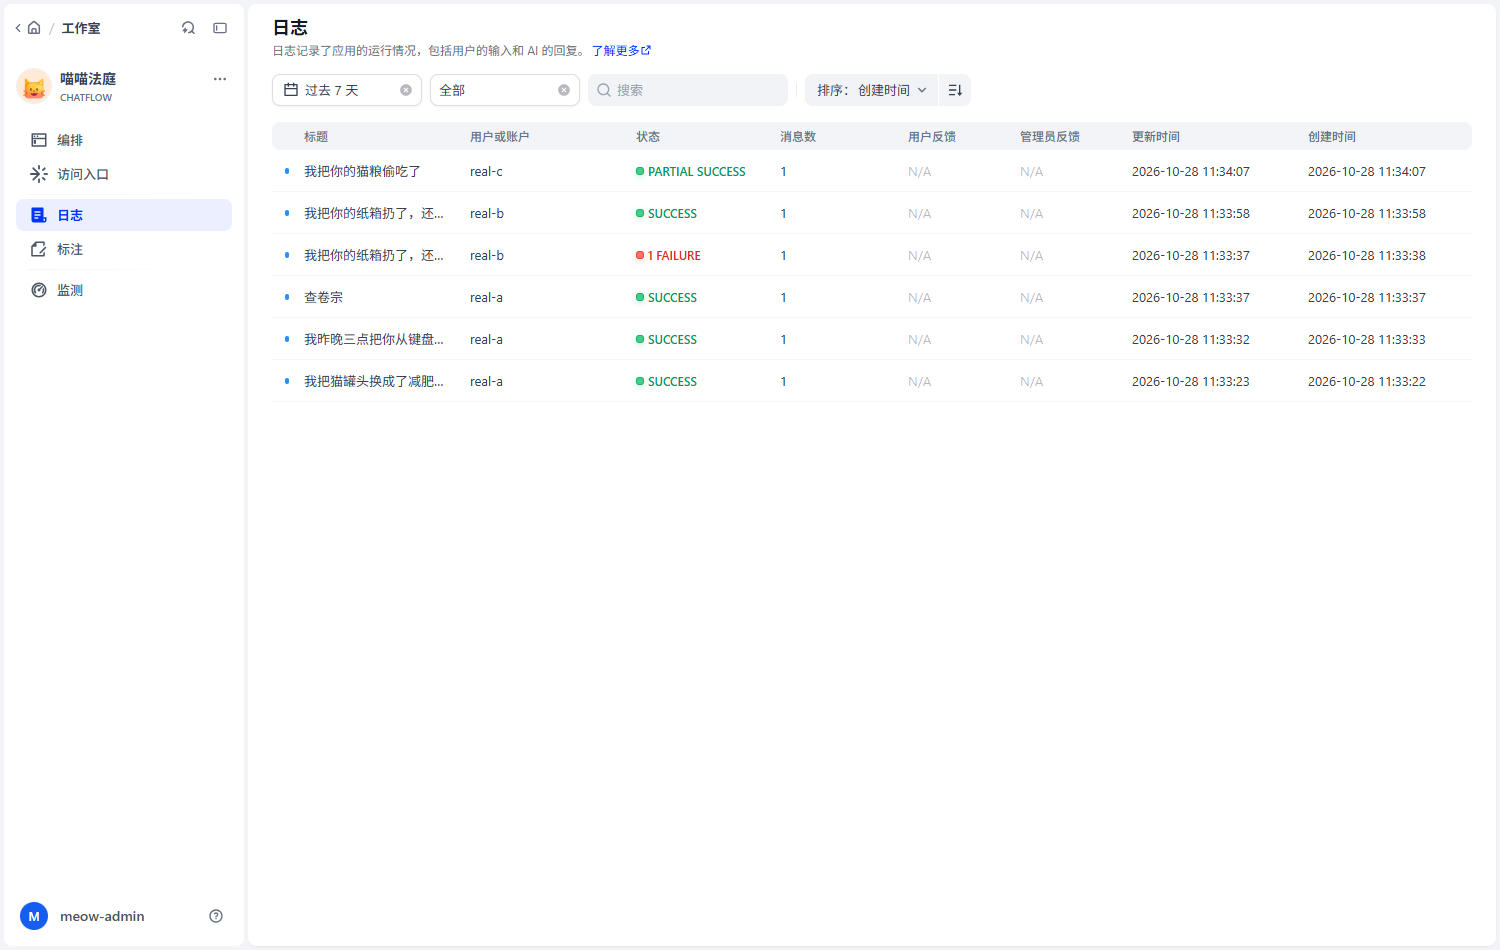
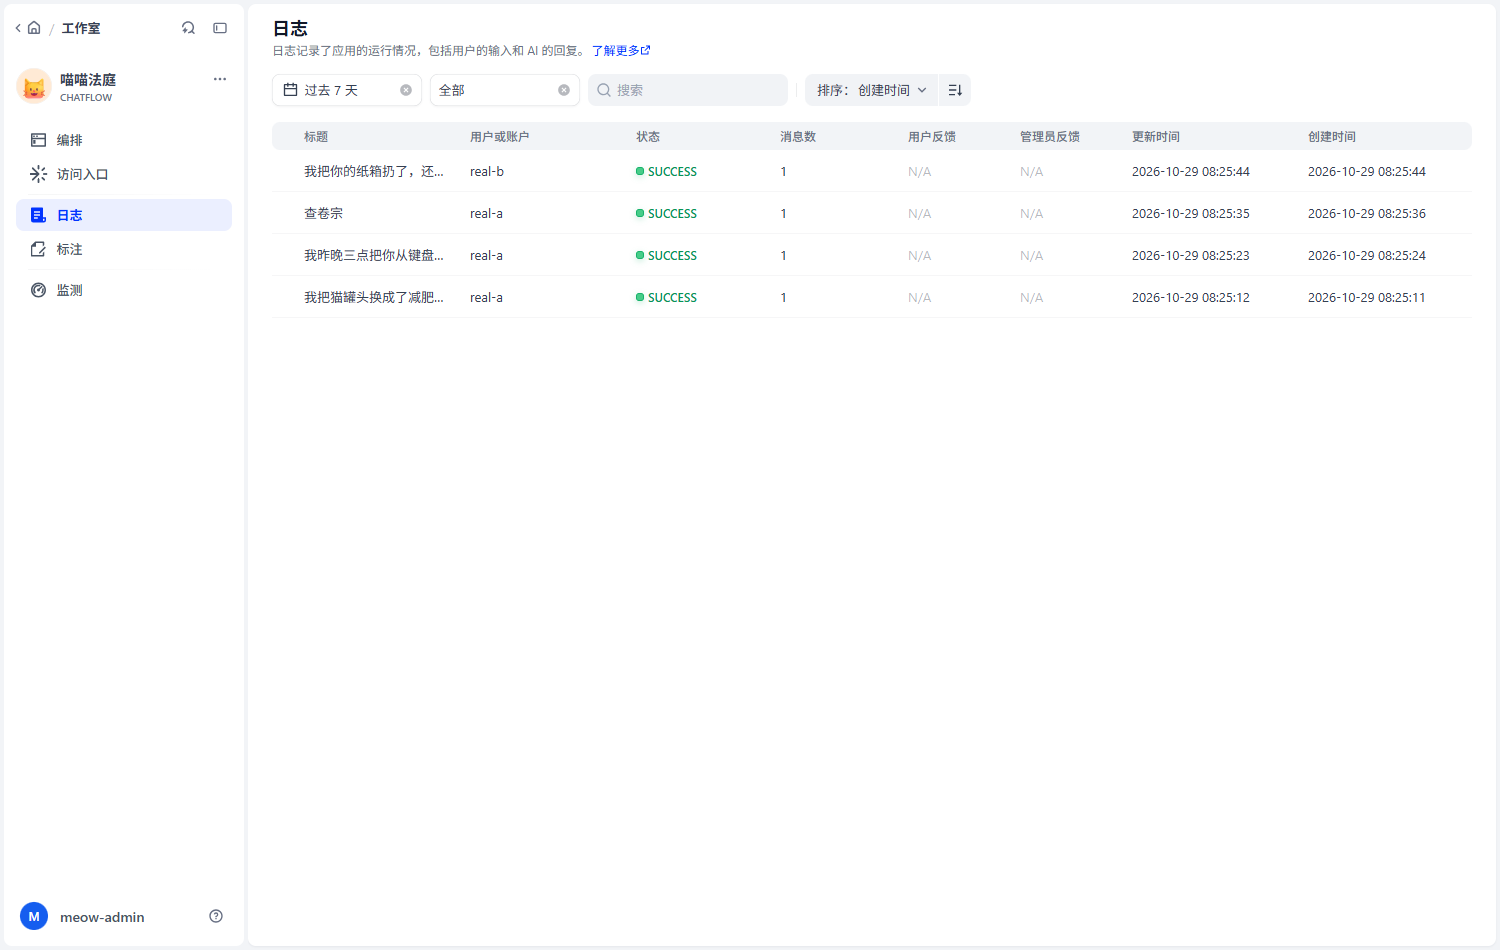
test(dify): refresh the run evidence with a clean, failure-free batch
The earlier evidence set was captured while the DeepSeek endpoint dropped a
connection mid-run, so the app's run log carried one red FAILURE row next to
the four successful runs. That row came from a transient provider error that
succeeded on retry, not from the workflow, but it reads as a defect in a
screenshot.

Rebuild the app from dsl/meow-court.yml, reset the two demo players, and run
the four scripted conversations again until the log shows only SUCCESS rows.
Re-shoot every screenshot against that app, including a new
07-offline-fallback.png for the deliberate PowerContext-outage test, so the
PARTIAL SUCCESS state it produces stays out of the green run list.

Regenerate dify-runs.md, service-api-runs.json and dify-import-final.json
from this batch and update both screenshot lists.

diff --git a/dify/evidence/dify-runs.md b/dify/evidence/dify-runs.md
@@ -3,103 +3,105 @@
 环境：Dify 社区版 **1.18.0**（docker compose）+ **PowerContext 1.4.1**（SQLite）+ DeepSeek 插件 `langgenius/deepseek` 0.0.26，模型 **`deepseek-flash`**。
 
 全部运行都走应用自己的 Service API（`POST /v1/chat-messages`），每次 `conversation_id` 传空字符串（等于新建会话），`user` 即 `sys.user_id`。
-
 使用的就是交付的 [dsl/meow-court.yml](../dsl/meow-court.yml)，没有替换任何节点。
+
 原始返回（query / user / conversation_id / message_id / 完整回复）见 `service-api-runs.json`。
+
+前 4 次是常规运行，日志页里全部是绿色的 `SUCCESS`（截图 `screenshots/03-logs.png`）；第 5 次是故意在 PowerContext 停止时发起的离线兜底测试，状态为 `PARTIAL SUCCESS`（截图 `screenshots/07-offline-fallback.png`），因为它走的是设计内的降级分支。
 
 ## A-首次开庭（真模型）
 
 - 玩家（`user`）：`real-a`
 - 输入：`我把猫罐头换成了减肥罐头，还说是猫自己说要减肥`
-- conversation_id：`32b55209-a48f-4561-a0b9-a2c58b08d600`
+- conversation_id：`7f1339c3-7644-4b28-acb8-0593eed058e3`
 
 ```markdown
 ## ⚖ 第 1 号 · 喵喵法庭开庭
 
 **累犯等级**：★☆☆☆☆（前科 0 次）
-**案由**：偷换罐头，嫁祸本猫
-**被告态度**：嫁祸——还把「减肥」两个字塞进本猫嘴里，本庭的耳朵可没这么脏
+**案由**：偷换罐罐，还赖猫
+**被告态度**：嫁祸——你说猫自己说要减肥？本庭活了九年，头一次听见猫说人话，还是这种鬼话。
 
 **判词**：
-> 本庭第一次见你，没想到一上来就是这种戏码。卷宗里空空如也，本庭本来还想给你留点体面，结果你把减肥罐头端上来，还说是我点的菜。法槌落下的声音，比你开罐头的声音难听多了。
+> 本庭第一次见你，卷宗干净得像刚舔过的毛。可你第一回上庭就敢把罐罐换成减肥罐头，还把锅甩给受害人。本庭拍了一记法槌，槌垫上全是我掉的毛，那都是替你掉的。
 
-**刑罚**：判被告徒手开三罐正经主食罐，全程跪坐，猫先闻三十秒才准放下；另罚抄「猫不需要减肥」一百遍，用爪子蘸汤写
-**附加条款**：即日起罐头一切更换须经本猫当面试吃并盖章（肉垫印）
+**刑罚**：判被告赔偿原味罐罐 3 箱（每箱 24 罐），当着本庭的面开罐 1 次，让猫先闻 30 秒再吃；减肥罐头由被告本人连吃 7 天，每天 2 顿，不许加猫条。
+**附加条款**：即日起，被告不得再以「猫说的」作为任何法庭陈述，猫说的话由本庭独家翻译。
 **援引旧案**：无
 
-—— 退庭——下次再端减肥的进来，本庭就判你吃它。
+—— 法槌落，罐罐开——退庭，被告去把罐头盖舔干净。
 
-> 🗄 本案已归档到 PowerContext 卷宗：`art_c743a79cb12e4fcd8252f3baa8551bf1`（下次开庭自动翻出）
+> 🗄 本案已归档到 PowerContext 卷宗：`art_bd6151410a0a470787975ecd710859d2`（下次开庭自动翻出）
 ```
 
 ## B-新会话累犯（真模型）
 
 - 玩家（`user`）：`real-a`
 - 输入：`我昨晚三点把你从键盘上抱走了`
-- conversation_id：`1f5f385b-9869-405a-9dae-56ebd43a0e7b`
+- conversation_id：`83aa300e-7397-4709-81fa-502cf642fa63`
 
 ```markdown
 ## ⚖ 第 2 号 · 喵喵法庭开庭
 
 **累犯等级**：★★☆☆☆（前科 1 次）
-**案由**：凌晨三点劫猫离键
-**被告态度**：认罪——但你这语气不像认错，像在汇报一件好人好事，本庭的毛都听炸了
+**案由**：半夜擅移猫体
+**被告态度**：狡辩——你说「抱走」，本庭听到的是「绑架」，凌晨三点，键盘重地，猫在加班踩键，你竟敢下手。
 
 **判词**：
-> 第 1 号案你偷换罐头还嫁祸本猫，本庭念你初犯给了你体面；如今第 2 号，你又趁着夜色把本猫从键盘上搬走。键盘是本猫的床，三点是本猫的黄金睡档，你两样一起动了。卷宗说你只是「累犯★☆☆☆☆」，可本庭的爪垫说你是惯犯。
+> 第 1 号案里你偷换罐罐、还赖猫说猫自己要减肥；这次你不偷罐了，改偷猫。上次动的是猫的饭，这次动的是猫的身子，前科未清又添新罪，本庭的毛球已经气得炸成蒲公英。键盘是本庭的办公桌，三点是本庭的黄金办公时段，你一句话就把整场审理抱没了。
 
-**刑罚**：判被告上缴 4 罐正经罐头（保释基准 2 罐，累犯加倍），并把那块键盘拆下来铺进纸箱，作为本猫的正式寝具；另罚连续 30 分钟梳毛，中途不许停手、不许看手机。
-**附加条款**：本猫趴键盘属于办公，被告抱走本猫属于越权执法。
+**刑罚**：判被告赔偿原味罐罐 4 罐，另附「猫体移动许可证」办理费 1 罐；许可证需由本庭用肉垫当场盖章，盖章时间由本庭决定，通常是凌晨三点。
+**附加条款**：今后被告与猫的距离不得小于一条尾巴，除非猫主动走过去——踩你脸上也算主动。
 **援引旧案**：第 1 号
 
-—— 法槌落下——顺带把被告的键盘也敲了下去，现在它是本猫的了。
+—— 法槌一敲，槌垫上又掉三根毛，全记你账上。
 
-> 🗄 本案已归档到 PowerContext 卷宗：`art_4a64f74d771a47829d72d225d2b56475`（下次开庭自动翻出）
+> 🗄 本案已归档到 PowerContext 卷宗：`art_4a7b46a4b04b4778b6b88e0423f7c186`（下次开庭自动翻出）
 ```
 
 ## C-查卷宗
 
 - 玩家（`user`）：`real-a`
 - 输入：`查卷宗`
-- conversation_id：`94919ed4-df76-4be0-bc7f-ad86cc026079`
+- conversation_id：`287d0247-909a-48ae-9a28-862cf351b4ec`
 
 ```markdown
 ### 📜 卷宗 · 共 2 号
 
-- 第2号 · 累犯★★☆☆☆ · 被告自述：我昨晚三点把你从键盘上抱走了 | 案由：凌晨三点劫猫离键 | 判读：认罪——但你这语气不像认错，像在汇报一件好人好事，本庭的毛都听炸了 | 判决：第 1 号案你偷换罐头还嫁祸本猫，本庭念你初犯给了你体面；如今第 2 号，你又趁着夜色把本猫从键盘上搬走。键盘是本猫的床，三点是本猫…
-- 第1号 · 累犯★☆☆☆☆ · 被告自述：我把猫罐头换成了减肥罐头，还说是猫自己说要减肥 | 案由：偷换罐头，嫁祸本猫 | 判读：嫁祸——还把「减肥」两个字塞进本猫嘴里，本庭的耳朵可没这么脏 | 判决：本庭第一次见你，没想到一上来就是这种戏码。卷宗里空空如也，本庭本来还想给你留点体面，结果你把减肥罐头端上来，还说是我点…
+- 第2号 · 累犯★★☆☆☆ · 被告自述：我昨晚三点把你从键盘上抱走了 | 案由：半夜擅移猫体 | 判读：狡辩——你说「抱走」，本庭听到的是「绑架」，凌晨三点，键盘重地，猫在加班踩键，你竟敢下手。 | 判决：第 1 号案里你偷换罐罐、还赖猫说猫自己要减肥；这次你不偷罐了，改偷猫。上次动的是猫的饭，这次动的是猫的身子，前…
+- 第1号 · 累犯★☆☆☆☆ · 被告自述：我把猫罐头换成了减肥罐头，还说是猫自己说要减肥 | 案由：偷换罐罐，还赖猫 | 判读：嫁祸——你说猫自己说要减肥？本庭活了九年，头一次听见猫说人话，还是这种鬼话。 | 判决：本庭第一次见你，卷宗干净得像刚舔过的毛。可你第一回上庭就敢把罐罐换成减肥罐头，还把锅甩给受害人。本庭拍了…
 ```
 
 ## D-另一位铲屎官首次开庭
 
 - 玩家（`user`）：`real-b`
 - 输入：`我把你的纸箱扔了，还说是风干的`
-- conversation_id：`08566702-7010-4553-b272-c1ffb8104f28`
+- conversation_id：`a8b74c20-77f3-47cb-8a35-c8b56f5fbfe0`
 
 ```markdown
 ## ⚖ 第 1 号 · 喵喵法庭开庭
 
 **累犯等级**：★☆☆☆☆（前科 0 次）
-**案由**：谋杀纸箱未遂
-**被告态度**：嫁祸——把锅甩给风，风要是会说话，本庭第一个传它作证
+**案由**：纸箱失踪，嫁祸于风
+**被告态度**：狡辩——风要是真有这本事，本庭早该传它上庭，可它连个爪印都没留下
 
 **判词**：
-> 本庭第一次见你，卷宗干净得像刚舔过的碗。被告把本庭的纸箱扔了，还编出「风干的」这种台词，风在猫界从来不背这个锅。本庭拿法槌敲了三下毛球，毛球都不信你。
+> 本庭第一次见你，本来想给你留点体面，但你居然让「风」替你背锅。本庭在这只纸箱里睡过三十七个下午，箱壁的抓痕、压塌的边角、还有一根橘毛，全是证物。风只会吹动窗帘，不会把纸箱搬下楼，更不会顺手把胶带也撕了。
 
-**刑罚**：判处被告赔偿纸箱 3 个（必须带猫味、带齿痕、带本庭睡塌的凹坑），保释金 1 罐即时上缴，另罚连续 7 天亲手把纸箱摆回原位并说「是我干的，不是风」。
-**附加条款**：缓刑期间禁止在被告面前提及「风」字，违者加罚一罐。
+**刑罚**：赔偿本庭同款纸箱三个（必须带盖、尺寸刚好卡住胡须），外加班庭审旁听席静坐四十分钟，全程不许说话、不许拍照、不许把手伸进箱子
+**附加条款**：从今日起，凡本庭的纸箱，未经本庭用尾巴盖章批准，任何人不得挪动半寸
 **援引旧案**：无
 
-—— 法槌落，毛球飞——退庭，去给本庭找个更结实的箱子。
+—— 法槌一敲——退庭，替风申冤的事本庭记下了，下次连风一起审。
 
-> 🗄 本案已归档到 PowerContext 卷宗：`art_9d9c5326d3684c8584f5b6d341d6e376`（下次开庭自动翻出）
+> 🗄 本案已归档到 PowerContext 卷宗：`art_cc9583aedf9b47158c0e60a9514c1d95`（下次开庭自动翻出）
 ```
 
 ## E-离线兜底
 
 - 玩家（`user`）：`real-c`
 - 输入：`我把你的猫粮偷吃了`
-- conversation_id：`b0e2e345-177f-4832-8c5f-983a19d350a3`
+- conversation_id：`12c38401-b09d-443e-ac9c-b0121a35f30c`
 
 ```markdown
 ### ⚠ 卷宗柜打不开

diff --git a/dify/evidence/README.md b/dify/evidence/README.md
@@ -19,20 +19,26 @@
 | `service-api-runs.json` | 应用发布后调用 `POST /v1/chat-messages`（`conversation_id` 传空 = 新会话） | 5 次真实请求的 query / user / conversation_id / message_id / 完整回复 |
 | `dify-runs.md` | 由 `service-api-runs.json` 整理 | 按样例顺序排好的运行记录，便于对照 `samples/` |
 | `powercontext-calls.jsonl` | `python scripts/verify_wiring.py --evidence ...` | 与 DSL 四个 HTTP 节点完全一致的请求体、状态码与响应片段（真实往返） |
-| `screenshots/` | Playwright 驱动真实 Chrome 登录 Dify 后截图 | 6 张界面截图，见下表 |
+| `screenshots/` | Playwright 驱动真实 Chrome 登录 Dify 后截图 | 7 张界面截图，见下表 |
 
 ## 界面截图
 
 | 文件 | 内容 |
 | --- | --- |
 | `screenshots/01-apps.png` | Dify 工作室里的「喵喵法庭」（CHATFLOW） |
-| `screenshots/02-workflow.png` | Chatflow 画布，15 个节点与两条分支 |
-| `screenshots/03-logs.png` | 运行历史：5 次真实对话的玩家（real-a/b/c）与状态，离线兜底那条显示 `PARTIAL SUCCESS`；其中还有一条 `1 FAILURE` 是 DeepSeek 侧瞬时断连（`Remote end closed connection`），重试后成功，未计入下面 5 条证据 |
-| `screenshots/04-log-detail.png` | 单次运行详情（含离线兜底那次的实际对话） |
-| `screenshots/05-chat-dossier.png` | 「查卷宗」分支：直接列出 PowerContext 里的两条案底 |
-| `screenshots/06-chat-verdict.png` | 预览窗口里的真实判决书：五星累犯、【通缉令】、援引第 3/4 号，末尾是 `art_...` 归档回执 |
+| `screenshots/02-workflow.png` | Chatflow 画布：15 个节点、两条分支（审判 / 查卷宗） |
+| `screenshots/03-logs.png` | 运行历史：4 次常规运行，全部绿色 `SUCCESS`，玩家 `real-a` / `real-b` |
+| `screenshots/04-log-detail.png` | 第 2 号那次运行的对话：★★☆☆☆、前科 1 次、`援引旧案：第 1 号`、末尾 `art_...` 归档回执 |
+| `screenshots/05-chat-dossier.png` | 「查卷宗」分支：直接列出 PowerContext 里的两条案底（不调用模型） |
+| `screenshots/06-chat-verdict.png` | 第 1 号那次运行的完整判决书与归档回执 |
+| `screenshots/07-offline-fallback.png` | 离线兜底：PowerContext 停止时输出「⚠ 卷宗柜打不开」+ 排查指引 |
 
-截图里的判词均由 DeepSeek 真实生成；`06` 那张是对话框里第 5 号案件（该账号此前已有案底）。
+`03-logs.png` 是在前 4 次运行之后拍的，所以列表里只有 4 条、全是 `SUCCESS`。第 5 条
+（`07-offline-fallback.png` 里那条 `PARTIAL SUCCESS`）是**故意**在 PowerContext 停止时发起的降级测试：
+它走的是设计内的兜底分支，因此状态不是 `SUCCESS`，页面上也不会出现 `FAILURE`。
+
+截图里的判词均由 DeepSeek 真实生成，案号与星级就是当时卷宗的状态；`04` 里的「第 2 号」与 `06` 里的
+「第 1 号」正好证明第二次判决引用了第一次。
 
 ## 五次运行分别验证什么
 

diff --git a/dify/README.md b/dify/README.md
@@ -338,7 +338,7 @@ dify/
     ├── service-api-runs.json       # 5 次真实对话的原始返回
     ├── dify-runs.md                # 运行记录 + 核对要点
     ├── powercontext-calls.jsonl    # 真实 PowerContext 请求/响应
-    └── screenshots/                # 6 张 Dify 界面截图（应用、画布、日志、判决书、查卷宗）
+    └── screenshots/                # 7 张 Dify 界面截图（应用、画布、日志、判决书、查卷宗、离线兜底）
 ```
 
 `scripts/verify_wiring.py` 的定位：**接线自检**，不是第二个实现。它按 DSL 的节点顺序执行 code / http-request / if-else / answer 节点，用来在没有 Dify、没有模型额度的机器上确认「四个 PowerContext 调用真的有数据往返」（本作品的正式验证用的是真实模型，见 `evidence/`）。LLM 节点在离线模式下使用 `samples/offline-verdict.json` 里的桩数据，输出会明确标注；**正式体验与评分仍以 Dify 里运行的结果为准**。
@@ -403,7 +403,7 @@ python scripts/verify_wiring.py --user demo-grader \
 | 初始状态 / 输入 / 操作顺序 | `samples/sample-a…c`（含「如何恢复初始状态」） |
 | 预期交互与输出形式 | 同上（每节都有「预期表现」表） |
 | 实际运行结果 | `evidence/dify-runs.md` + `evidence/service-api-runs.json`（5 次真实对话原文） |
-| 截图 | `evidence/screenshots/`（6 张，见 10.5） |
+| 截图 | `evidence/screenshots/`（7 张，见 10.5） |
 | PowerContext 的作用与记录 | 6.1 四个调用 + `evidence/powercontext-calls.jsonl` + 对话里的 `art_...` 回执 |
 
 ### 10.4 4.4 按依赖补充的材料
@@ -431,10 +431,11 @@ python scripts/verify_wiring.py --user demo-grader \
 | --- | --- |
 | `01-apps.png` | 工作室里的「喵喵法庭」应用 |
 | `02-workflow.png` | Chatflow 画布（15 节点 + 两条分支） |
-| `03-logs.png` | 运行历史：5 次真实对话与状态（离线兜底为 `PARTIAL SUCCESS`） |
-| `04-log-detail.png` | 单次运行详情（离线兜底的实际对话） |
-| `05-chat-dossier.png` | 「查卷宗」分支输出 |
-| `06-chat-verdict.png` | 真实判决书 + `art_...` 归档回执 |
+| `03-logs.png` | 运行历史：4 次常规运行，全部 `SUCCESS`（`real-a` / `real-b`） |
+| `04-log-detail.png` | 第 2 号运行的对话：★★☆☆☆、援引第 1 号、归档回执 |
+| `05-chat-dossier.png` | 「查卷宗」分支输出（不调用模型） |
+| `06-chat-verdict.png` | 第 1 号的完整判决书 + `art_...` 归档回执 |
+| `07-offline-fallback.png` | 离线兜底：PowerContext 停止时的「⚠ 卷宗柜打不开」 |
 
 ---
 
